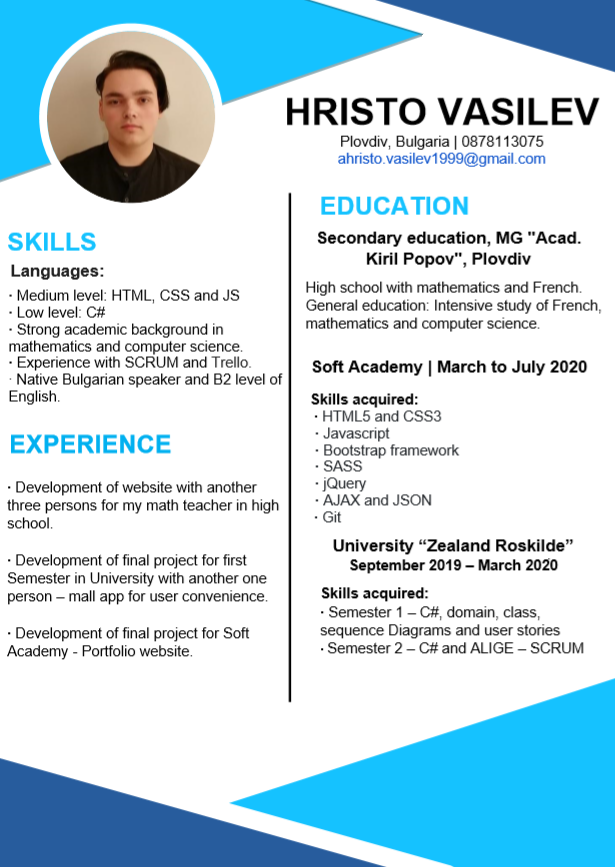
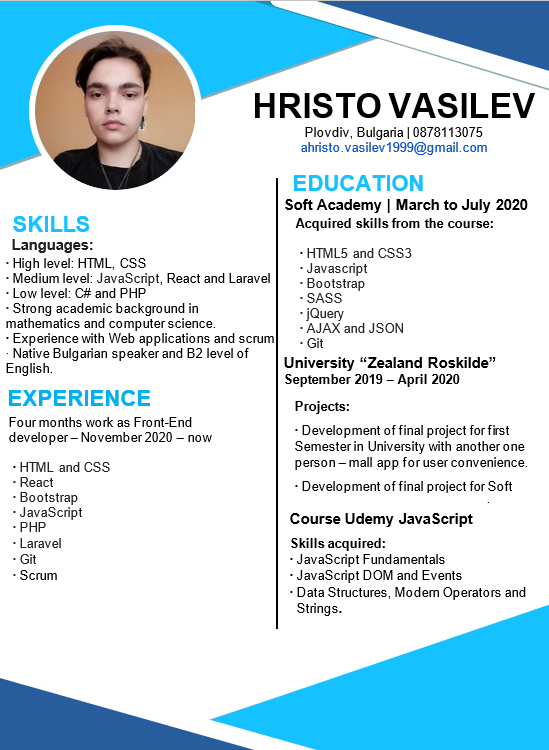
newCommit

Changed region(s): [[0.0, 0.0, 1.0, 1.0]]

diff --git a/index.html b/index.html
@@ -25,7 +25,7 @@
                         <li><a href="#home" class="active">Home</a></li>
                         <li><a href="#about">About</a></li>
                         <li><a href="#skills">Skills</a></li>
-                        <li><a href="#motivation-letter">Motivation Letter</a></li>
+                        <li><a href="#CV">CV</a></li>
                         <li><a href="#contacts">Contacts</a></li>
                     </ul>
                 </div>
@@ -72,9 +72,8 @@
                         </div>
                         <div class="text">
                             <h4>I'm Hristo Vasilev</h4>
-                            <h6>A Trainee programmer in <span>Bulgaria</span></h6>
-                            <p>Trainee in programming graduated from the Plovdiv Mathematical High School "Academician
-                                Kiril Popov" with intensive study of French, mathematics and programming.</p>
+                            <h6>A Trainee programmer in <span>Plovdiv - Bulgaria</span></h6>
+                            <p> I'm junior developer in a company for four months and I have a great desire to develop in the field of programming.</p>
                             <div class="info">
                                 <div class="list">
                                     <label>Birthday:</label>
@@ -102,7 +101,7 @@
                                 </div>
                                 <div class="list">
                                     <label>Address:</label>
-                                    <p>Bulgaria, Plovdiv, jk.Trakiq bl:256 vhod:B et:2 ap:4</p>
+                                    <p>Bulgaria, Plovdiv, jk.Trakiq bl:311</p>
                                 </div>
                             </div>
                             <div class="social-links">
@@ -134,34 +133,50 @@
                     </div>
                     <div class="row">
                         <div class="skill-box">
-                            <h6>HTML5</h6>
+                            <h6>HTML/CSS</h6>
                             <div class="skill-bar">
-                                <div class="skill-bar-in" style="width: 60%">
-                                    <span>60%</span>
+                                <div class="skill-bar-in" style="width: 90%">
+                                    <span>90%</span>
                                 </div>
                             </div>
                         </div>
                         <div class="skill-box">
-                            <h6>CSS</h6>
+                            <h6>Bootstrap</h6>
                             <div class="skill-bar">
-                                <div class="skill-bar-in" style="width: 60%">
-                                    <span>60%</span>
+                                <div class="skill-bar-in" style="width: 90%">
+                                    <span>90%</span>
                                 </div>
                             </div>
                         </div>
                         <div class="skill-box">
                             <h6>Javascript</h6>
                             <div class="skill-bar">
-                                <div class="skill-bar-in" style="width: 35%">
-                                    <span>35%</span>
+                                <div class="skill-bar-in" style="width: 50%">
+                                    <span>50%</span>
                                 </div>
                             </div>
                         </div>
                         <div class="skill-box">
-                            <h6>C#</h6>
+                            <h6>React</h6>
                             <div class="skill-bar">
-                                <div class="skill-bar-in" style="width: 20%">
-                                    <span>20%</span>
+                                <div class="skill-bar-in" style="width: 40%">
+                                    <span>40%</span>
+                                </div>
+                            </div>
+                        </div>
+                        <div class="skill-box">
+                            <h6>PHP</h6>
+                            <div class="skill-bar">
+                                <div class="skill-bar-in" style="width: 30%">
+                                    <span>30%</span>
+                                </div>
+                            </div>
+                        </div>
+                        <div class="skill-box">
+                            <h6>Laravel</h6>
+                            <div class="skill-bar">
+                                <div class="skill-bar-in" style="width: 25%">
+                                    <span>25%</span>
                                 </div>
                             </div>
                         </div>
@@ -174,41 +189,21 @@
         </div>
     </section>
 
-    <!--Start Motivation Letter -->
+    <!--Start CV -->
 
 
-    <section class="Motivation" id="motivation-letter">
+    <section class="CV" id="CV">
         <div class="container">
             <div class="row">
-                <div class="section-title">
-                    <h1>Motivation Letter</h1>
+                <div class="section-title text-center">
+                    <h1>CV</h1>
                 </div>
             </div>
             <div class="row">
                 <div class="about-content">
                     <div class="row">
-                        <div class="sidebar">
-                            <div style="text-align:center;" class="info">
-                                <div class="list">
-                                    <label class="main-label">CONTACTS</label>
-                                </div>
-                                <div class="list">
-                                    <label> &#127968; Bulgaria, Plovdiv, &nbsp; jk.Trakiq &nbsp; bl:256 &nbsp; vhod:B
-                                        &nbsp; et:2 &nbsp; ap:4</label>
-                                </div>
-                                <div class="list">
-                                    <label> &#128222; 0878113075</label>
-                                </div>
-                                <div class="list">
-                                    <label> &#128231; ahristo.vasilev1999@gmail.com</label>
-                                </div>
-                            </div>
-                        </div>
-                        <div class="text">
-                            <h4>Dear (kompaniqta )</h4>
-                            <br>
-                            <p>Lorem ipsum dolor sit amet, consectetur adipisicing elit. Repellat deserunt quibusdam harum accusantium perferendis soluta ducimus, perspiciatis blanditiis aspernatur possimus neque debitis maxime saepe eum voluptatibus sint, provident minima placeat.Lorem ipsum dolor sit amet, consectetur adipisicing elit. Repellat deserunt quibusdam harum accusantium perferendis soluta ducimus, perspiciatis blanditiis aspernatur possimus neque debitis maxime saepe eum voluptatibus sint, provident minima placeat.Lorem ipsum dolor sit amet, consectetur adipisicing elit. Repellat deserunt quibusdam harum accusantium perferendis soluta ducimus, perspiciatis blanditiis aspernatur possimus neque debitis maxime saepe eum voluptatibus sint, provident minima placeat.Lorem ipsum dolor sit amet, consectetur adipisicing elit. Repellat deserunt quibusdam harum accusantium perferendis soluta ducimus, perspiciatis blanditiis aspernatur possimus neque debitis maxime saepe eum voluptatibus sint, provident minima placeat.Lorem ipsum dolor sit amet, consectetur adipisicing elit. Repellat deserunt quibusdam harum accusantium perferendis soluta ducimus, perspiciatis blanditiis aspernatur possimus neque debitis maxime saepe eum voluptatibus sint, provident minima placeat.Lorem ipsum dolor sit amet, consectetur adipisicing elit. Repellat deserunt quibusdam harum accusantium perferendis soluta ducimus, perspiciatis blanditiis aspernatur possimus neque debitis maxime saepe eum voluptatibus sint, provident minima placeat.Lorem ipsum dolor sit amet, consectetur adipisicing elit. Repellat deserunt quibusdam harum accusantium perferendis soluta ducimus, perspiciatis blanditiis aspernatur possimus neque debitis maxime saepe eum voluptatibus sint, provident minima placeat.Lorem ipsum dolor sit amet, consectetur adipisicing elit. Repellat deserunt quibusdam harum accusantium perferendis soluta ducimus, perspiciatis blanditiis aspernatur possimus neque debitis maxime saepe eum voluptatibus sint, provident minima placeat.Lorem ipsum dolor sit amet, consectetur adipisicing elit. Repellat deserunt quibusdam harum accusantium perferendis soluta ducimus, perspiciatis blanditiis aspernatur possimus neque debitis maxime saepe eum voluptatibus sint, provident minima placeat.Lorem ipsum dolor sit amet, consectetur adipisicing elit. Repellat deserunt quibusdam harum accusantium perferendis soluta ducimus, perspiciatis blanditiis aspernatur possimus neque debitis maxime saepe eum voluptatibus sint, provident minima placeat.Lorem ipsum dolor sit amet, consectetur adipisicing elit. Repellat deserunt quibusdam harum accusantium perferendis soluta ducimus, perspiciatis blanditiis aspernatur possimus neque debitis maxime saepe eum voluptatibus sint, provident minima placeat.Lorem ipsum dolor sit amet, consectetur adipisicing elit. Repellat deserunt quibusdam harum accusantium perferendis soluta ducimus, perspiciatis blanditiis aspernatur possimus neque debitis maxime saepe eum voluptatibus sint, provident minima placeat.Lorem ipsum dolor sit amet, consectetur adipisicing elit. Repellat deserunt quibusdam harum accusantium perferendis soluta ducimus, perspiciatis blanditiis aspernatur possimus neque debitis maxime saepe eum voluptatibus sint, provident minima placeat.Lorem ipsum dolor sit amet, consectetur adipisicing elit. Repellat deserunt quibusdam harum accusantium perferendis soluta ducimus, perspiciatis blanditiis aspernatur possimus neque debitis maxime saepe eum voluptatibus sint, provident minima placeat.</p>
-                                Thanks & Regards<br>Hristo Vasilev
+                        <div class="img">
+                            <img src="images/CV.png" alt="">
                         </div>
                     </div>
                 </div>
@@ -216,7 +211,7 @@
         </div>
     </section>
 
-    <!--End Motivation Letter -->
+    <!--End CV -->
 
     <!--Start Contacts -->
 

diff --git a/css/style.css b/css/style.css
@@ -274,8 +274,6 @@ header .navbar ul li a.active::before{
 .about-me .about-content .img img{
     width: 100%;
     display: block;
-    -webkit-transform: rotateY(180deg);
-    transform: rotateY(180deg);
 }
 
 .about-me .about-content .text{
@@ -442,61 +440,22 @@ header .navbar ul li a.active::before{
 }
 
     
-/*Mottivation Lettter*/ 
+/*CV*/ 
 
-.sidebar {
-    width: 22.5%;
-    margin-right: 4.5%;
+.CV .img{
+    flex: 0 0 100%;
+    max-width: 100%;
 }
 
-.Motivation{
-    padding: 100px 15px; 
-    background-color: #ffffff;
- }
- 
- .Motivation .section-title p.small{
-     display: block;
-     font-size: 14px;
-     color: #838383;
-     font-weight: 400;
-     letter-spacing: 2px;
- }
-
-.Motivation .about-content .text h4{
-    font-size: 20px;
-    font-weight: 600;
-    color: #000000;
+.align-items-center{
+    align-items: center;
 }
 
-.Motivation .about-content .text{
-    flex: 0 0 73%;
-    max-width: 73%;
-}
-
-.Motivation .about-content .text p{
-    font-size: 15px;
-    font-weight: 400;
-    line-height: 24px;
-    color: #3f3f3f;
-    margin: 0 0 20px;
-}
-
-.Motivation .about-content .sidebar .info .list{
+.CV .img img{
+    width: 100%;
     display: block;
-    margin-bottom: 9px;
 }
 
-.Motivation .about-content .sidebar .info .list label{
-    color: rgb(94, 94, 94);
-    font-weight: 600;
-    font-size: 16px;
-}
-
-.Motivation .about-content .sidebar .info .list .main-label{
-    color: rgb(61, 61, 61);
-    font-weight: 600;
-    font-size: 25px;
-}
 
 /*Contact us*/ 
 
@@ -658,7 +617,7 @@ footer .social a:hover{
 }
 
 @media (max-width: 1025px){
-    .Motivation .about-content .text{
+    .CV .about-content .text{
         flex: 0 0 100%;
         max-width: 100%;
         padding-left: 0px;
